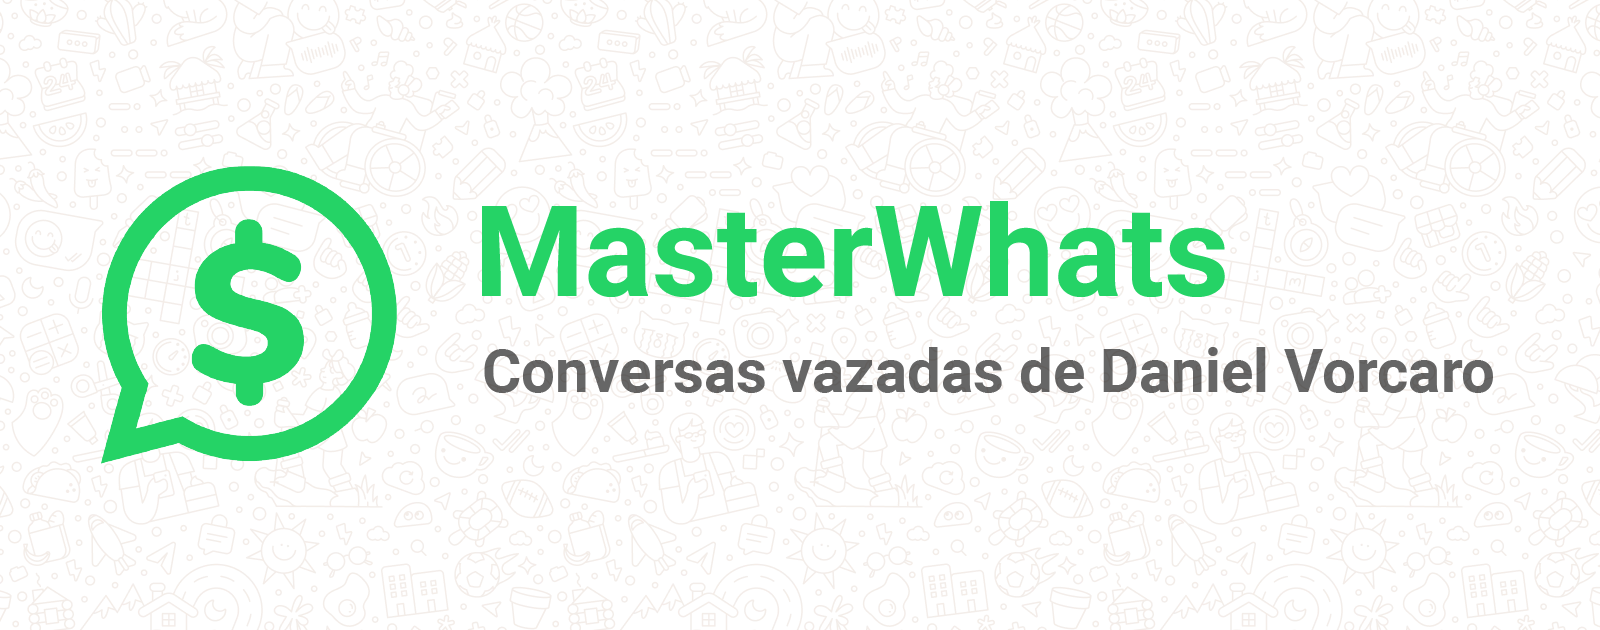
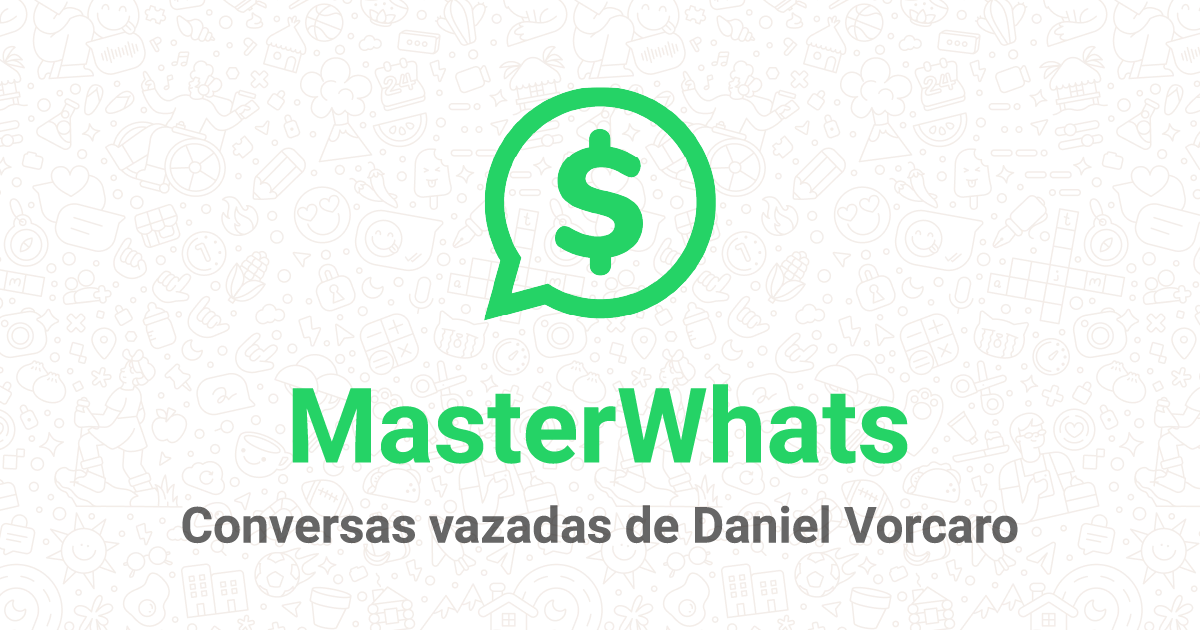
Update OG image to ideal 1200x630 dimensions

Changed region(s): [[0.0617, 0.2413, 0.9558, 0.754], [0.2775, 0.1206, 0.7708, 0.5127], [0.1542, 0.7841, 0.8633, 0.8746]]

diff --git a/index.html b/index.html
@@ -18,7 +18,7 @@
   <meta property="og:type" content="website">
   <meta property="og:url" content="https://masterwhats.com/">
   <meta property="og:image" content="https://masterwhats.com/assets/og-image.png">
-  <meta property="og:image:width" content="1600">
+  <meta property="og:image:width" content="1200">
   <meta property="og:image:height" content="630">
   <meta property="og:locale" content="pt_BR">
   <meta property="og:site_name" content="MasterWhats">
